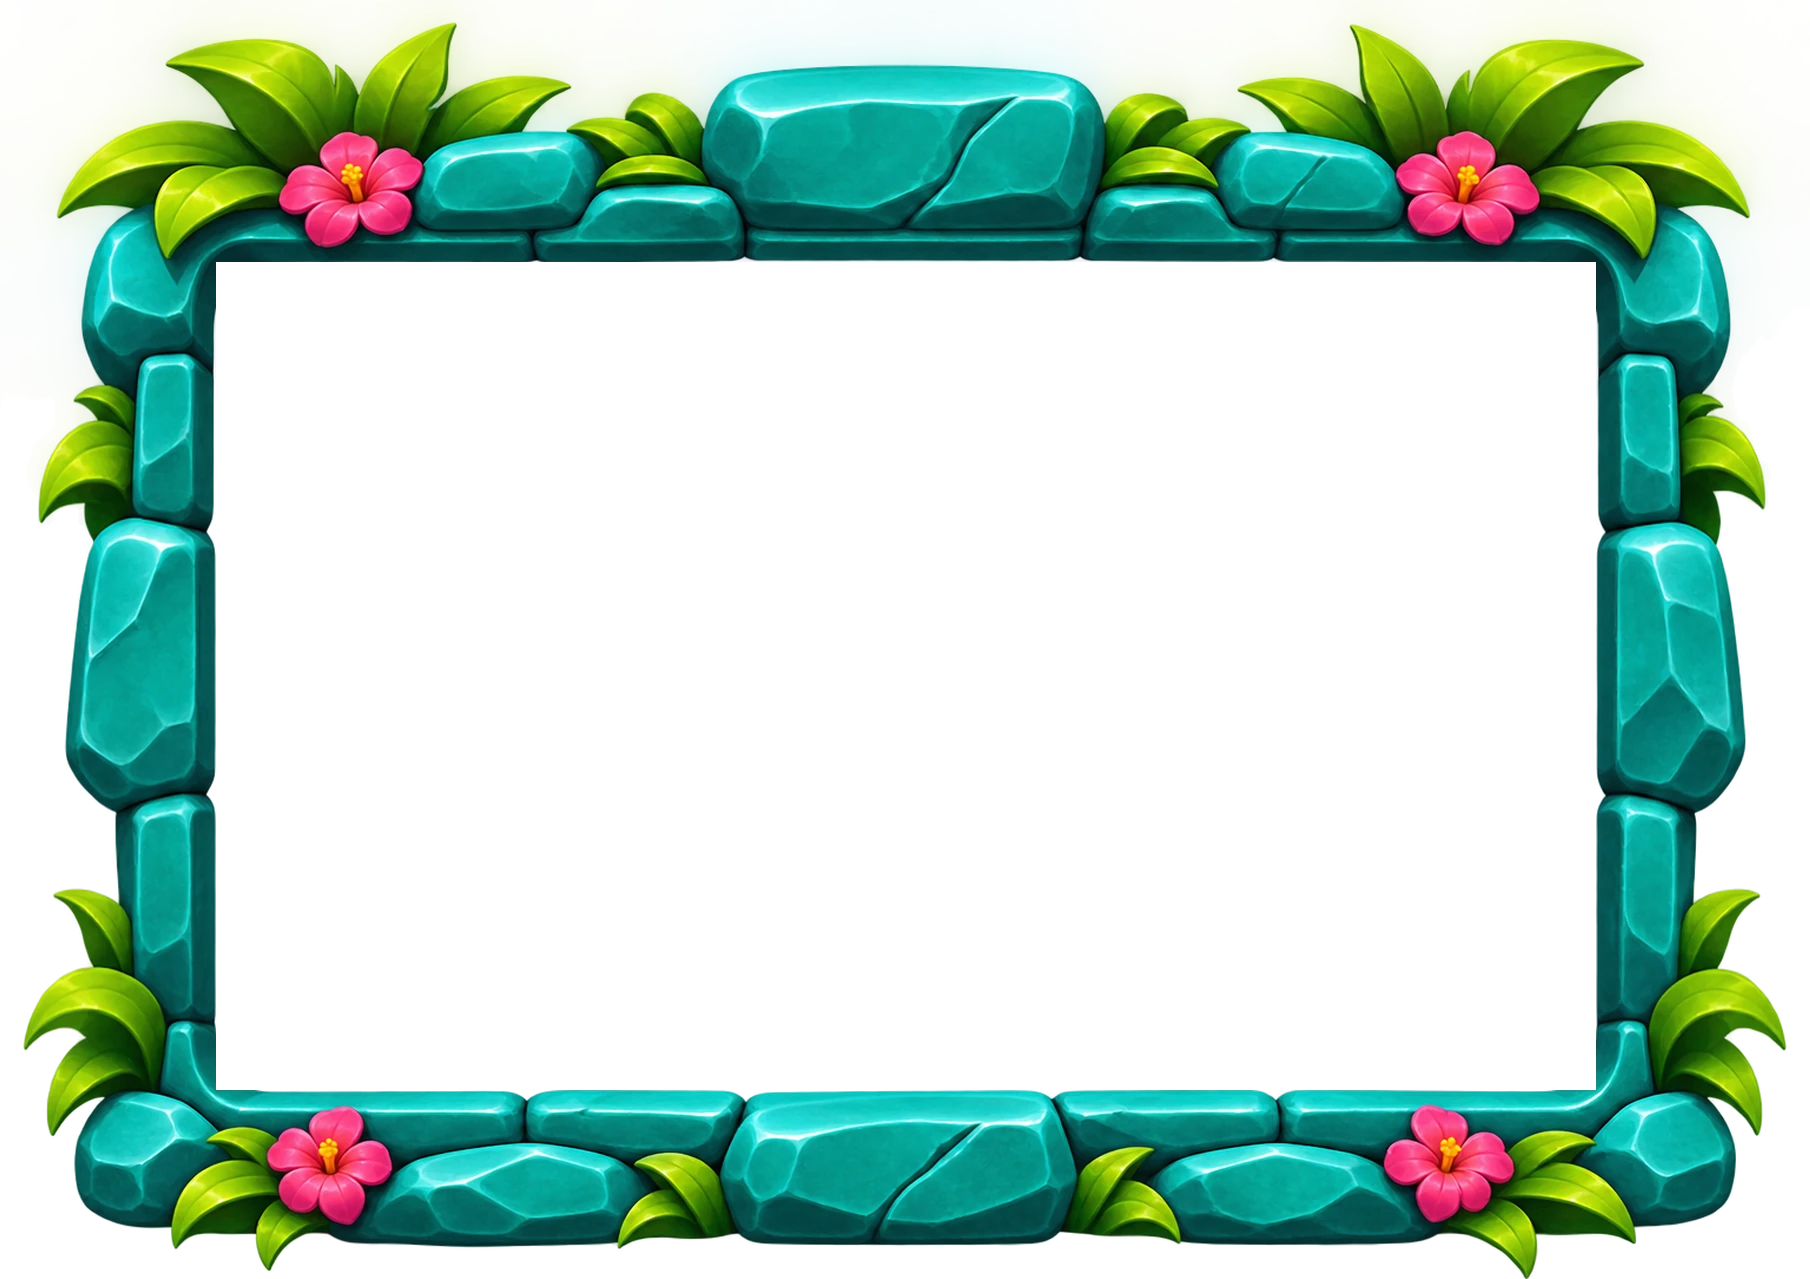
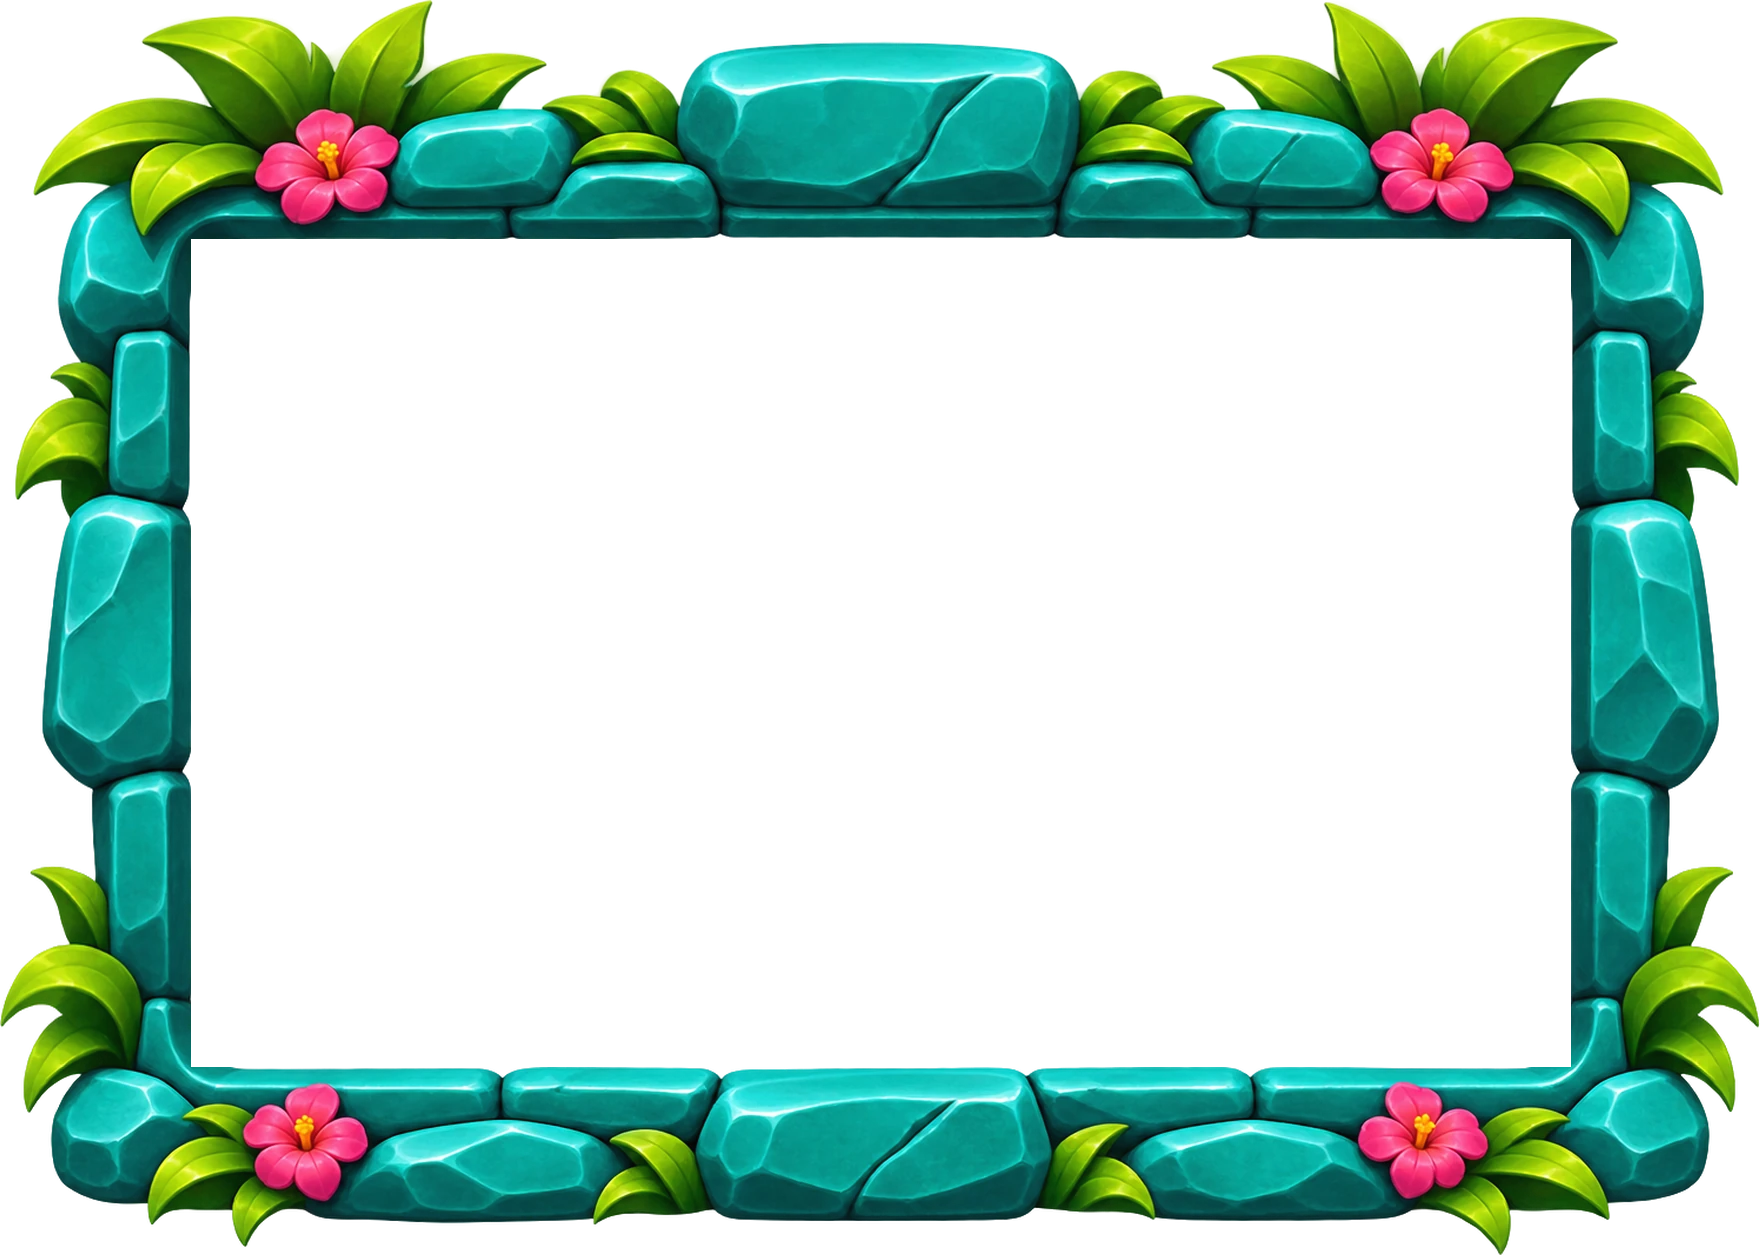
Savannah Kings: side-column layout is now the main one; V3 frame without haze
Layouts renumbered: 1 = title on the frame with WIN/BUY left and jackpots
right (was 3), 3 = logo over a GRAND->MINI row (was 1); saved picks reset.
WIN/BUY are smaller and span the jackpot block's height; the plaques share
one centre axis. The Toon frame came back from ChatGPT with a translucent
backdrop (alpha ~50-66) that glowed behind the reels: cut via the art
script's new SK_ALPHA_FLOOR.

Changed region(s): [[0.0, 0.0, 1.0, 1.0]]

diff --git a/front/js/savannah-kings/layouts.js b/front/js/savannah-kings/layouts.js
@@ -8,9 +8,9 @@
 //   2  GRAND over MINI · MINOR · MAJOR, sitting on the frame's top border;
 //      the reels grow until the frame meets the control pill, and the
 //      plaques never reach down into the symbol window.
-//   1  logo top centre, GRAND MAJOR MINOR MINI in one row on the frame's
+//   3  logo top centre, GRAND MAJOR MINOR MINI in one row on the frame's
 //      top border, reels as large as layout 2's.
-//   3  one-line title banner on the frame, WIN/BUY left, jackpots right,
+//   1  (main) one-line title banner on the frame, WIN/BUY left, jackpots right,
 //      the frame centred on x at 45% of the stage height
 //      (60% of it below); the left column (logo, WIN, BUY BONUS) and the
 //      right column (jackpots, MINI at the bottom) are exactly as tall as the
@@ -19,7 +19,7 @@
   const screen = document.getElementById('screen');
   const sw = document.getElementById('layoutSwitch');
   if (!screen || !sw) return;
-  const KEY = `savannah.layout.${location.pathname.split('/').pop()}`;
+  const KEY = `savannah.layout.v2.${location.pathname.split('/').pop()}`;
 
   const W = 1920, H = 1080;
   const WIN_W = 880, WIN_H = 528, REEL_LEFT = 520;
@@ -90,7 +90,7 @@
     Object.assign(ladder.style, { top: `${crownTop}px` });
   }
 
-  // --- 3: title banner on the frame, WIN/BUY left, jackpots right --------
+  // --- 1 (main): title banner on the frame, WIN/BUY left, jackpots right --------
   // The jackpots (GRAND JP_W wide) stand JP_FRAME_GAP right of the frame;
   // the frame is centred, so it is as wide as that leaves on both sides.
   // The one-line logo (logo_wide.webp) rests on the frame's top border and
@@ -103,8 +103,9 @@
   const GAP = 16;              // between items in a column
   const JP_W = 360;            // GRAND width (1.5x the old 240 column)
   const BANNER_K = 0.8;        // logo banner width vs the frame width
+  const L3_MEDAL_W = 200;      // WIN / BUY BONUS disc width
 
-  function layout3() {
+  function layoutSides() {
     const f = frameBox();
     buy.style.zoom = '1';
     const ps = plaqueRatios();
@@ -136,37 +137,38 @@
       zIndex: '7',   // over the frame's crest
     });
 
-    // Left: WIN and BUY BONUS, as wide as the room allows, centred on the frame.
-    const room = fLeft - JP_FRAME_GAP - EDGE;
-    const md0 = 256, medalH0 = buy.offsetHeight;
-    const wC = Math.min(room, JP_W * 0.8, ((fH - GAP) / 2) * (md0 / medalH0));
-    const k = wC / md0, medalH = medalH0 * k;
-    const lcx = (EDGE + fLeft - JP_FRAME_GAP) / 2;
-    const lTop = L3_CY - (2 * medalH + GAP) / 2;
-    const place = (el, y) => Object.assign(el.style, {
-      zoom: String(k), left: `${(lcx - wC / 2) / k}px`, right: 'auto', top: `${y / k}px`,
-    });
-    place(status, lTop);
-    place(buy, lTop + medalH + GAP);
-
     // Right: jackpots, MINI at the bottom, JP_FRAME_GAP from the frame.
     ps.forEach((q) => sizePlaque(q, q.grand ? JP_W : JP_W / GRAND_K));
     const stackH = ps.reduce((a, q) => a + q.r * (q.grand ? JP_W : JP_W / GRAND_K), 0) + 3 * GAP;
+    const stackTop = L3_CY - stackH / 2;
     Object.assign(ladder.style, {
       left: `${fRight + JP_FRAME_GAP}px`, right: 'auto', width: `${JP_W}px`,
-      top: `${L3_CY - stackH / 2}px`, height: `${stackH}px`, transform: 'none',
-      justifyContent: 'center', alignItems: 'flex-start', gap: `${GAP}px`, zIndex: '6',
+      top: `${stackTop}px`, height: `${stackH}px`, transform: 'none',
+      justifyContent: 'center', alignItems: 'center', gap: `${GAP}px`, zIndex: '6',   // one centre axis: GRAND over MAJOR
     });
+
+    // Left: WIN and BUY BONUS spanning exactly the jackpot block's height:
+    // WIN's top on GRAND's top, BUY's chip bottom on MINI's bottom.
+    const room = fLeft - JP_FRAME_GAP - EDGE;
+    const md0 = 256, medalH0 = buy.offsetHeight;
+    const wC = Math.min(room, L3_MEDAL_W, ((stackH - GAP) / 2) * (md0 / medalH0));
+    const k = wC / md0, medalH = medalH0 * k;
+    const lcx = (EDGE + fLeft - JP_FRAME_GAP) / 2;
+    const place = (el, y) => Object.assign(el.style, {
+      zoom: String(k), left: `${(lcx - wC / 2) / k}px`, right: 'auto', top: `${y / k}px`,
+    });
+    place(status, stackTop);
+    place(buy, stackTop + stackH - medalH);
 
     // The system buttons move off the jackpot column, next to the pill.
     Object.assign(sys.style, { top: `${PILL_TOP + 12}px`, right: '48px' });
   }
 
-  // --- 1: logo on top, then GRAND MAJOR MINOR MINI in one row on the frame
+  // --- 3: logo on top, then GRAND MAJOR MINOR MINI in one row on the frame
   // The layout-2 recipe with one floor of plaques and the logo above them:
   // the plaques rest on the frame's top border, never on the symbols, and
   // the reels grow until the frame meets the pill.
-  function layout1() {
+  function layoutTop() {
     const f = frameBox();
     const ps = plaqueRatios();
     const logoW = 230, logoTop = 6;
@@ -190,8 +192,8 @@
     if (document.body.classList.contains('is-portrait')) return;
     const v = screen.dataset.layout;
     if (v === '2') layout2();
-    else if (v === '3') layout3();
-    else layout1();
+    else if (v === '3') layoutTop();
+    else layoutSides();
   }
 
   function set(v) {

diff --git a/front/css/savannah-layouts.css b/front/css/savannah-layouts.css
@@ -2,13 +2,12 @@
    desktop layout options picked with the «Варианты» switch
    (js/savannah-kings/layouts.js sets .screen[data-layout]).
 
-     1  as designed: jackpot ladder in one row above the reels, Buy medallion
-        left, Win medallion right.
+     1  (main) one-line title banner on the frame, WIN and BUY BONUS on the
+        left, jackpots on the right 10px off the frame; slot centred.
      2  jackpots on two floors above the reels: GRAND on top, MINI · MINOR ·
-        MAJOR under it; the reels step down and shrink a little to make room.
-     3  side columns: logo, then the WIN counter, then BUY BONUS down the left;
-        reels in the middle; jackpots down the right, ascending bottom-to-top
-        (MINI at the bottom, GRAND on top).
+        MAJOR under it, resting on the frame's top border.
+     3  logo top centre, GRAND MAJOR MINOR MINI in one row on the frame.
+   Geometry for 1-3 is computed in js/savannah-kings/layouts.js.
 
    Stage coordinates are the 1920x1080 design frame. Portrait is untouched:
    every rule is scoped to body:not(.is-portrait). A variant whose frame art
@@ -56,24 +55,24 @@ body:not(.is-portrait) .screen[data-layout="2"] .reel {
   transform: scale(var(--l2-reel-scale, 0.9)); transform-origin: 50% 0;
 }
 
-/* --- 3: side columns ----------------------------------------------------- */
+/* --- 1 (main): side columns ----------------------------------------------------- */
 
 /* Left column, reel size and the ladder geometry: js/savannah-kings/layouts.js. */
 
 /* Reels: no crown above them any more, so they grow and rise a little. */
-body:not(.is-portrait) .screen[data-layout="3"] .reel {
+body:not(.is-portrait) .screen[data-layout="1"] .reel {
   top: var(--l3-reel-top, 300px);
   transform: scale(var(--l3-reel-scale, 1.05)); transform-origin: 50% 50%;
 }
 
 /* Right column: the ladder stands up, MINI at the bottom, GRAND on top
    (DOM order is MINI MINOR MAJOR GRAND, so column-reverse). */
-body:not(.is-portrait) .screen[data-layout="3"] .crown--ladder {
+body:not(.is-portrait) .screen[data-layout="1"] .crown--ladder {
   top: 556px; left: auto; right: 32px; width: 360px;
   transform: translateY(-50%);
   flex-direction: column-reverse; align-items: center; justify-content: flex-start;
   gap: 14px; z-index: 5;
 }
-body:not(.is-portrait) .screen[data-layout="3"] .crown--ladder .jp { width: 310px; font-size: 26px; }
-body:not(.is-portrait) .screen[data-layout="3"] .crown--ladder .jp--grand { width: 350px; font-size: 32px; }
-body:not(.is-portrait) .screen[data-layout="3"] .crown__top::before { width: 120%; height: 160%; }
+body:not(.is-portrait) .screen[data-layout="1"] .crown--ladder .jp { width: 310px; font-size: 26px; }
+body:not(.is-portrait) .screen[data-layout="1"] .crown--ladder .jp--grand { width: 350px; font-size: 32px; }
+body:not(.is-portrait) .screen[data-layout="1"] .crown__top::before { width: 120%; height: 160%; }

diff --git a/front/savannah-canyon.html b/front/savannah-canyon.html
@@ -7,7 +7,7 @@
 <link rel="stylesheet" href="css/fonts.css">
 <link rel="stylesheet" href="css/preloader.css?v=1">
 <link rel="stylesheet" href="css/savannah-canyon.css?v=3">
-<link rel="stylesheet" href="css/savannah-layouts.css?v=2">
+<link rel="stylesheet" href="css/savannah-layouts.css?v=3">
 </head>
 <body>
 
@@ -216,6 +216,6 @@
   <script src="js/savannah-kings/fx.js?v=1"></script>
   <script src="js/savannah-kings/slot.js?v=5"></script>
   <script src="js/savannah-kings/app.js?v=3"></script>
-  <script src="js/savannah-kings/layouts.js?v=13"></script>
+  <script src="js/savannah-kings/layouts.js?v=16"></script>
 </body>
 </html>

diff --git a/front/savannah-carved.html b/front/savannah-carved.html
@@ -7,7 +7,7 @@
 <link rel="stylesheet" href="css/fonts.css">
 <link rel="stylesheet" href="css/preloader.css?v=1">
 <link rel="stylesheet" href="css/savannah-carved.css?v=3">
-<link rel="stylesheet" href="css/savannah-layouts.css?v=2">
+<link rel="stylesheet" href="css/savannah-layouts.css?v=3">
 </head>
 <body>
 
@@ -216,6 +216,6 @@
   <script src="js/savannah-kings/fx.js?v=1"></script>
   <script src="js/savannah-kings/slot.js?v=5"></script>
   <script src="js/savannah-kings/app.js?v=3"></script>
-  <script src="js/savannah-kings/layouts.js?v=13"></script>
+  <script src="js/savannah-kings/layouts.js?v=16"></script>
 </body>
 </html>

diff --git a/front/savannah-timber.html b/front/savannah-timber.html
@@ -7,7 +7,7 @@
 <link rel="stylesheet" href="css/fonts.css">
 <link rel="stylesheet" href="css/preloader.css?v=1">
 <link rel="stylesheet" href="css/savannah-timber.css?v=3">
-<link rel="stylesheet" href="css/savannah-layouts.css?v=2">
+<link rel="stylesheet" href="css/savannah-layouts.css?v=3">
 </head>
 <body>
 
@@ -216,6 +216,6 @@
   <script src="js/savannah-kings/fx.js?v=1"></script>
   <script src="js/savannah-kings/slot.js?v=5"></script>
   <script src="js/savannah-kings/app.js?v=3"></script>
-  <script src="js/savannah-kings/layouts.js?v=13"></script>
+  <script src="js/savannah-kings/layouts.js?v=16"></script>
 </body>
 </html>

diff --git a/front/savannah-crisp.html b/front/savannah-crisp.html
@@ -7,7 +7,7 @@
 <link rel="stylesheet" href="css/fonts.css">
 <link rel="stylesheet" href="css/preloader.css?v=1">
 <link rel="stylesheet" href="css/savannah-crisp.css?v=3">
-<link rel="stylesheet" href="css/savannah-layouts.css?v=2">
+<link rel="stylesheet" href="css/savannah-layouts.css?v=3">
 </head>
 <body>
 
@@ -216,6 +216,6 @@
   <script src="js/savannah-kings/fx.js?v=1"></script>
   <script src="js/savannah-kings/slot.js?v=5"></script>
   <script src="js/savannah-kings/app.js?v=3"></script>
-  <script src="js/savannah-kings/layouts.js?v=13"></script>
+  <script src="js/savannah-kings/layouts.js?v=16"></script>
 </body>
 </html>

diff --git a/front/savannah-toon.html b/front/savannah-toon.html
@@ -7,7 +7,7 @@
 <link rel="stylesheet" href="css/fonts.css">
 <link rel="stylesheet" href="css/preloader.css?v=1">
 <link rel="stylesheet" href="css/savannah-toon.css?v=3">
-<link rel="stylesheet" href="css/savannah-layouts.css?v=2">
+<link rel="stylesheet" href="css/savannah-layouts.css?v=3">
 </head>
 <body>
 
@@ -216,6 +216,6 @@
   <script src="js/savannah-kings/fx.js?v=1"></script>
   <script src="js/savannah-kings/slot.js?v=5"></script>
   <script src="js/savannah-kings/app.js?v=3"></script>
-  <script src="js/savannah-kings/layouts.js?v=13"></script>
+  <script src="js/savannah-kings/layouts.js?v=16"></script>
 </body>
 </html>

diff --git a/front/css/savannah-toon.css b/front/css/savannah-toon.css
@@ -24,10 +24,10 @@
   --win-w: 880px;
   --win-h: 528px;
   /* Frame art: where the window sits inside reel_frame.png, as fractions. */
-  --frame-win-l: 0.1193;
-  --frame-win-t: 0.2048;
-  --frame-win-w: 0.7624;
-  --frame-win-h: 0.6474;
+  --frame-win-l: 0.1085;
+  --frame-win-t: 0.1904;
+  --frame-win-w: 0.7841;
+  --frame-win-h: 0.6598;
   /* Jackpot plaques: the empty value panel, fractions of the plaque art. */
   --jp-l: 0.48;
   --jp-r: 0.09;

diff --git a/scripts/savannah_kings_art.py b/scripts/savannah_kings_art.py
@@ -39,7 +39,16 @@ def load(name):
         if p.exists():
             im = Image.open(p).convert('RGBA')
             a = np.array(im)
-            a[..., 3][a[..., 3] < ALPHA_FLOOR] = 0
+            # SK_ALPHA_FLOOR: a sheet that came back with a translucent
+            # backdrop (alpha ~50-70 everywhere) is cut at that level and the
+            # rest of the alpha re-stretched, so the haze is gone but soft
+            # edges stay soft.
+            floor = int(os.environ.get('SK_ALPHA_FLOOR', ALPHA_FLOOR))
+            al = a[..., 3].astype(np.float32)
+            if floor > ALPHA_FLOOR:
+                al = np.clip((al - floor) * 255 / (255 - floor), 0, 255)
+            al[al < ALPHA_FLOOR] = 0
+            a[..., 3] = al.astype(np.uint8)
             return a
     raise FileNotFoundError(f'{name} not in {SRC}')
 
